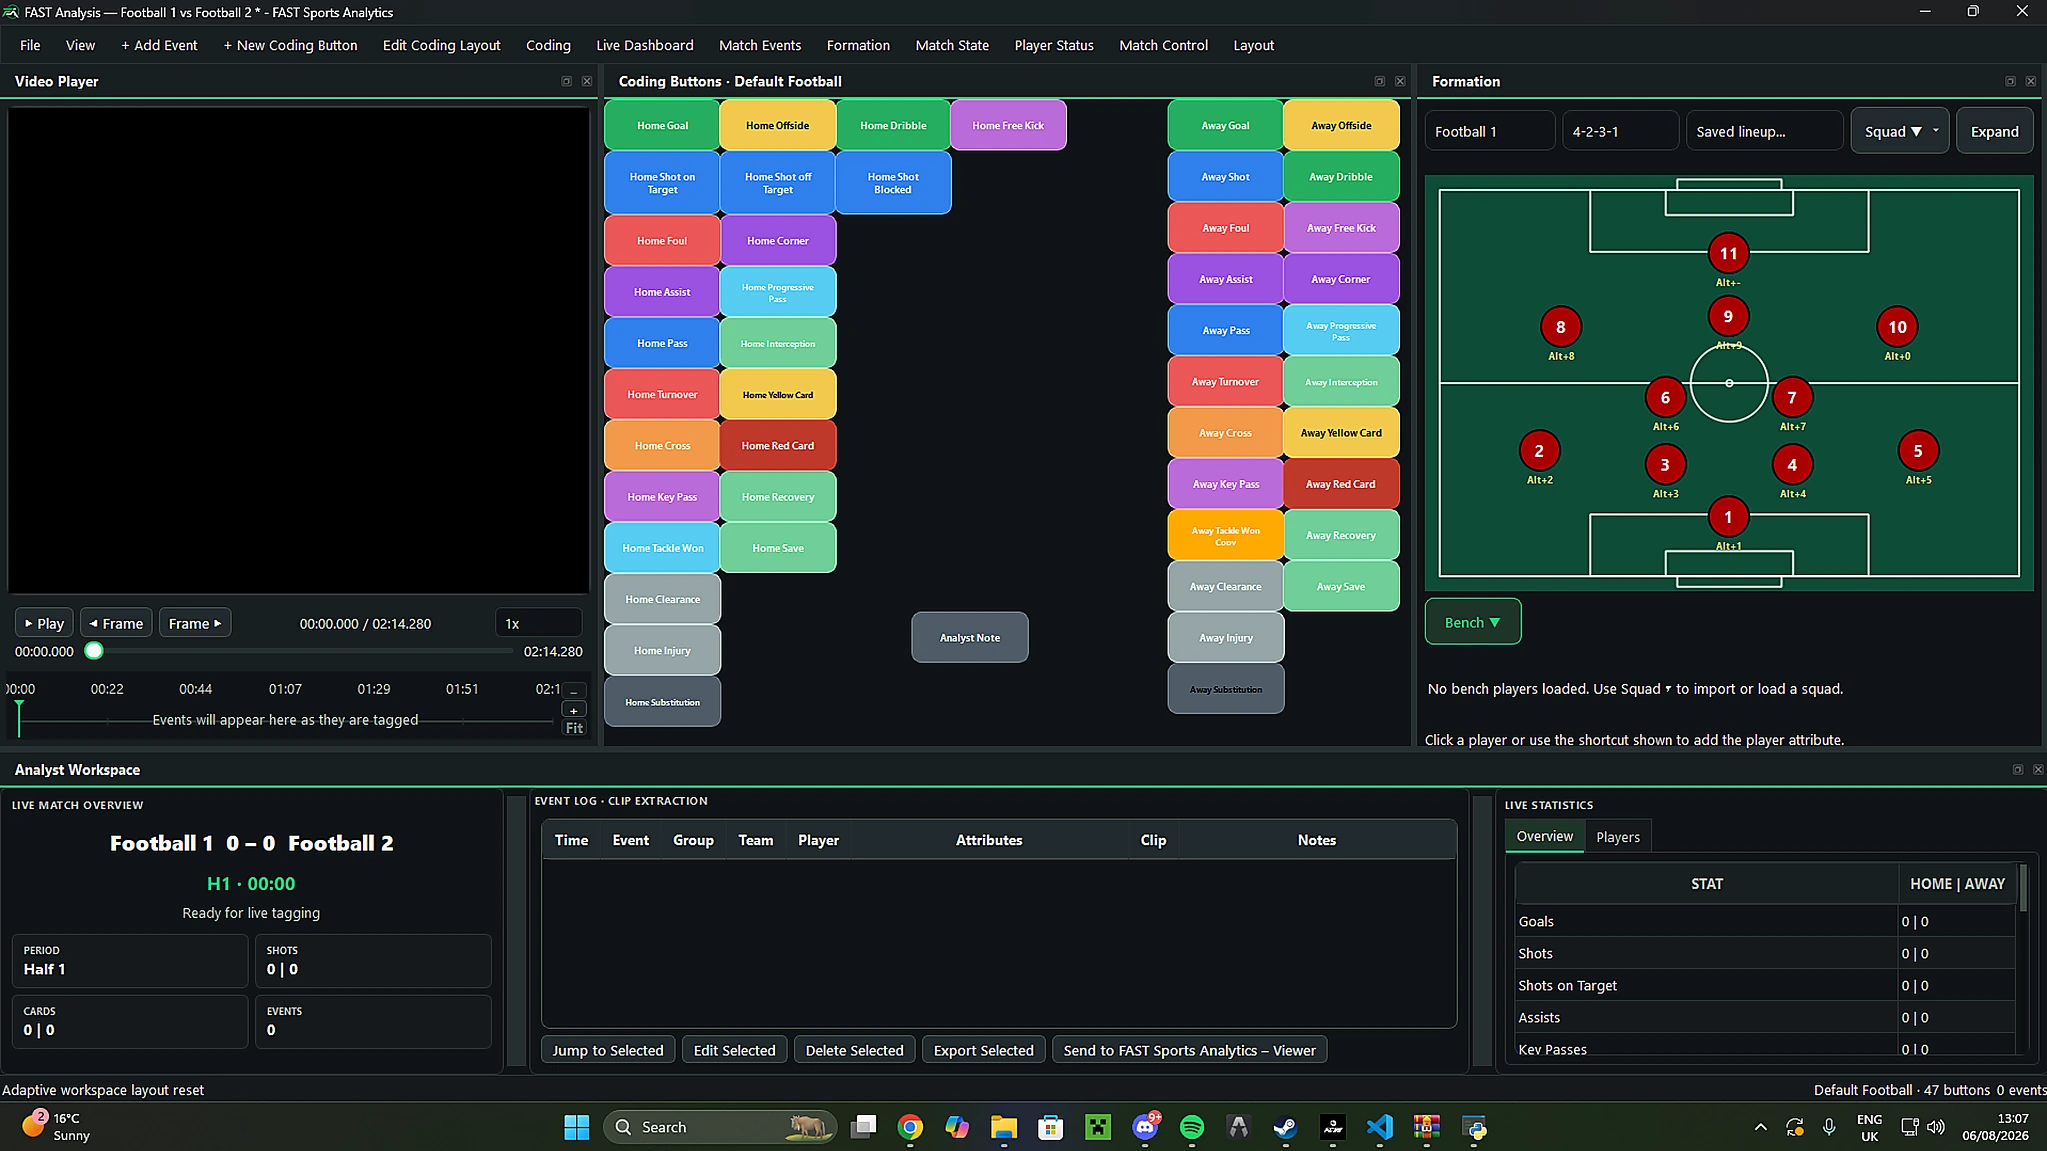
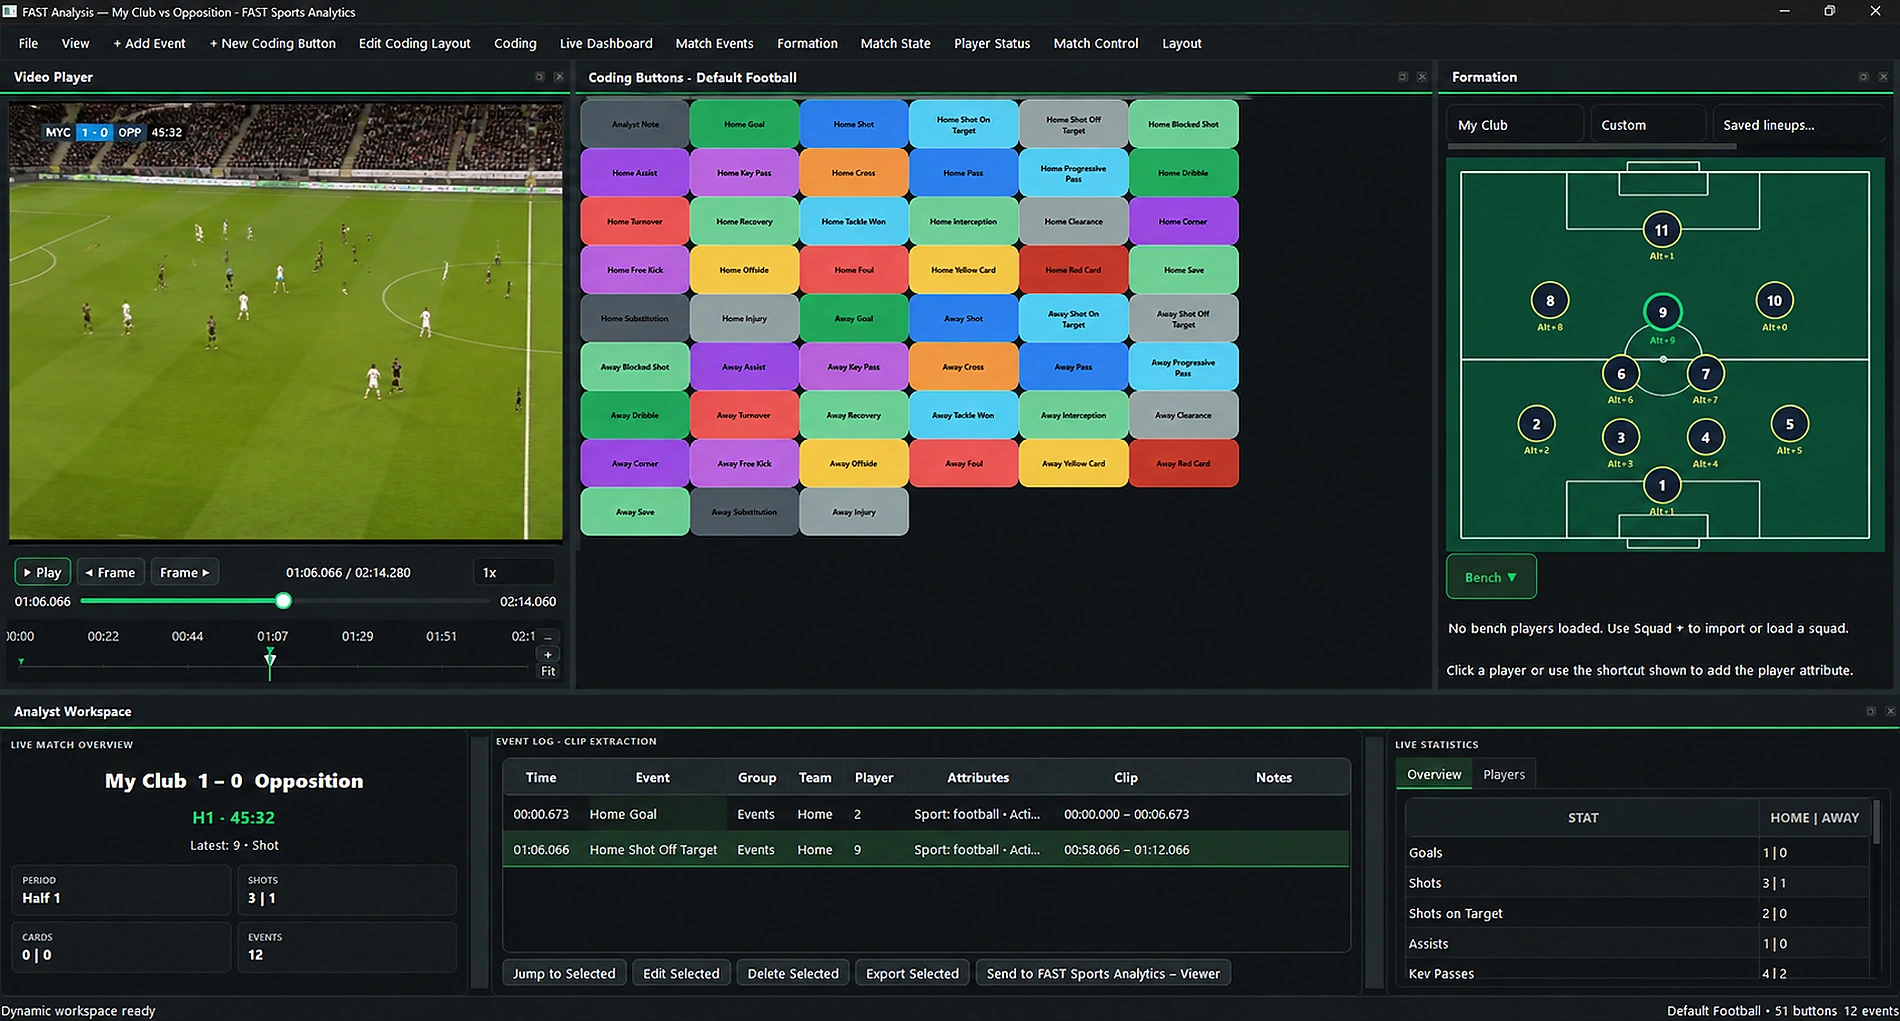
website update

diff --git a/app/components/ProductPage.tsx b/app/components/ProductPage.tsx
@@ -39,15 +39,16 @@ const productWorkflows: Record<string, readonly [string, string][]> = {
 
 const productScreens: Record<string, readonly { src: string; label: string; title: string; text: string; alt: string }[]> = {
   analysis: [
-    { src: "/product-screenshots/analysis-workspace.webp", label: "FAST Analysis · Live workspace", title: "One workspace for the whole match", text: "Code events, manage the formation, review the timeline and monitor live statistics without leaving the analysis screen.", alt: "FAST Analysis live football workspace with coding buttons, formation, event log and statistics" },
-    { src: "/product-screenshots/analysis-home.webp", label: "FAST Analysis · Workflow selection", title: "Move clearly from live to post-match", text: "Start a matchday coding session or enter the post-match environment from one focused home screen.", alt: "FAST Analysis home screen showing live match and post-match analysis choices" },
-    { src: "/product-screenshots/analysis-modes.webp", label: "FAST Analysis · Analysis modes", title: "Use the same structure with any media source", text: "Run live video, analyse an existing file, log events without video or return to a saved match.", alt: "FAST Analysis mode selection for live video, video file, no video and previous analysis" },
-    { src: "/product-screenshots/analysis-sport-selection.webp", label: "FAST Analysis · Multi-sport setup", title: "Start with the language of your sport", text: "Sport-specific setup adapts the workspace, terminology, match structure and future modules before analysis begins.", alt: "FAST Analysis first-time sport selection screen" },
+    { src: "/product-screenshots/analysis-workspace.webp", label: "FAST Analysis · Live workspace", title: "One workspace for the whole match", text: "Code events, manage the formation, review the timeline and monitor live statistics without leaving the analysis screen.", alt: "Current FAST Analysis football workspace with match video, coding buttons, formation, event log and live statistics" },
+    { src: "/product-screenshots/analysis-home.webp", label: "FAST Analysis · Workflow selection", title: "Start from one focused analysis home", text: "Enter Live Match Analysis immediately, with the future Post-Match Analysis workspace clearly marked as coming soon.", alt: "Current FAST Analysis home screen with Live Match Analysis and disabled Coming Soon Post-Match Analysis option" },
+    { src: "/product-screenshots/analysis-modes.webp", label: "FAST Analysis · Analysis modes", title: "Use the same structure with any media source", text: "Run live video, analyse an existing file, log events without video or return to a saved match.", alt: "Current FAST Analysis mode selection showing Live Video, Video File, No Video and Previous Analysis" },
   ],
   viewer: [
-    { src: "/product-screenshots/viewer-dashboard.webp", label: "FAST Viewer · Dashboard", title: "A review space that is ready when the coach opens it", text: "Matches, organisation context and analyst-delivered clips arrive in a focused viewer built for fast conversations.", alt: "FAST Viewer rugby dashboard" },
-    { src: "/product-screenshots/viewer-clips.webp", label: "FAST Viewer · Clip library", title: "Every key moment, organised and searchable", text: "Filter clips, review their status, add flags and capture coach comments in the same workspace.", alt: "FAST Viewer clip library with rugby clips, review flags and coach comments" },
-    { src: "/product-screenshots/viewer-playlists.webp", label: "FAST Viewer · Playlists", title: "Build half-time and post-match presentations in minutes", text: "Group clips, reorder the message and save discussion notes before presenting to the team.", alt: "FAST Viewer half-time review playlist" },
+    { src: "/product-screenshots/viewer-match-browser.webp", label: "FAST Viewer · Match Browser", title: "Open the right match and the right sport workspace", text: "Licensed matches are presented in one focused browser so coaches can move straight into the review environment.", alt: "Current FAST Viewer Match Browser showing a licensed football match ready to open" },
+    { src: "/product-screenshots/viewer-dashboard.webp", label: "FAST Viewer · Dashboard", title: "A review space that is ready when the coach opens it", text: "Match context, clip counts, quick actions and recent clips arrive in a focused Viewer dashboard built for fast conversations.", alt: "Current FAST Viewer football dashboard with recent clips and clip breakdown" },
+    { src: "/product-screenshots/viewer-clips.webp", label: "FAST Viewer · Clip library", title: "Every key moment, organised and searchable", text: "Filter clips, review their status, add flags and capture coach comments in the same workspace.", alt: "Current FAST Viewer football clip library with review flags and coach comments" },
+    { src: "/product-screenshots/viewer-playlists.webp", label: "FAST Viewer · Playlists", title: "Build half-time and post-match presentations in minutes", text: "Group clips, reorder the message and save discussion notes before presenting to the team.", alt: "Current FAST Viewer playlist workspace with half-time review controls" },
+    { src: "/product-screenshots/viewer-players.webp", label: "FAST Viewer · Player review", title: "Review every clip attached to an individual player", text: "Move from the team view to player-specific moments, then open or export the clips needed for individual feedback.", alt: "Current FAST Viewer Players section showing player-tagged football clips" },
   ],
   cloud: [
     { src: "/product-screenshots/cloud-organisation.webp", label: "FAST Cloud · Organisation management", title: "Control the organisation from one place", text: "See subscriptions, seats, users, products, sports, devices and recent activity through a single administration layer.", alt: "FAST organisation management dashboard showing subscription, seats, devices, users and products" },
